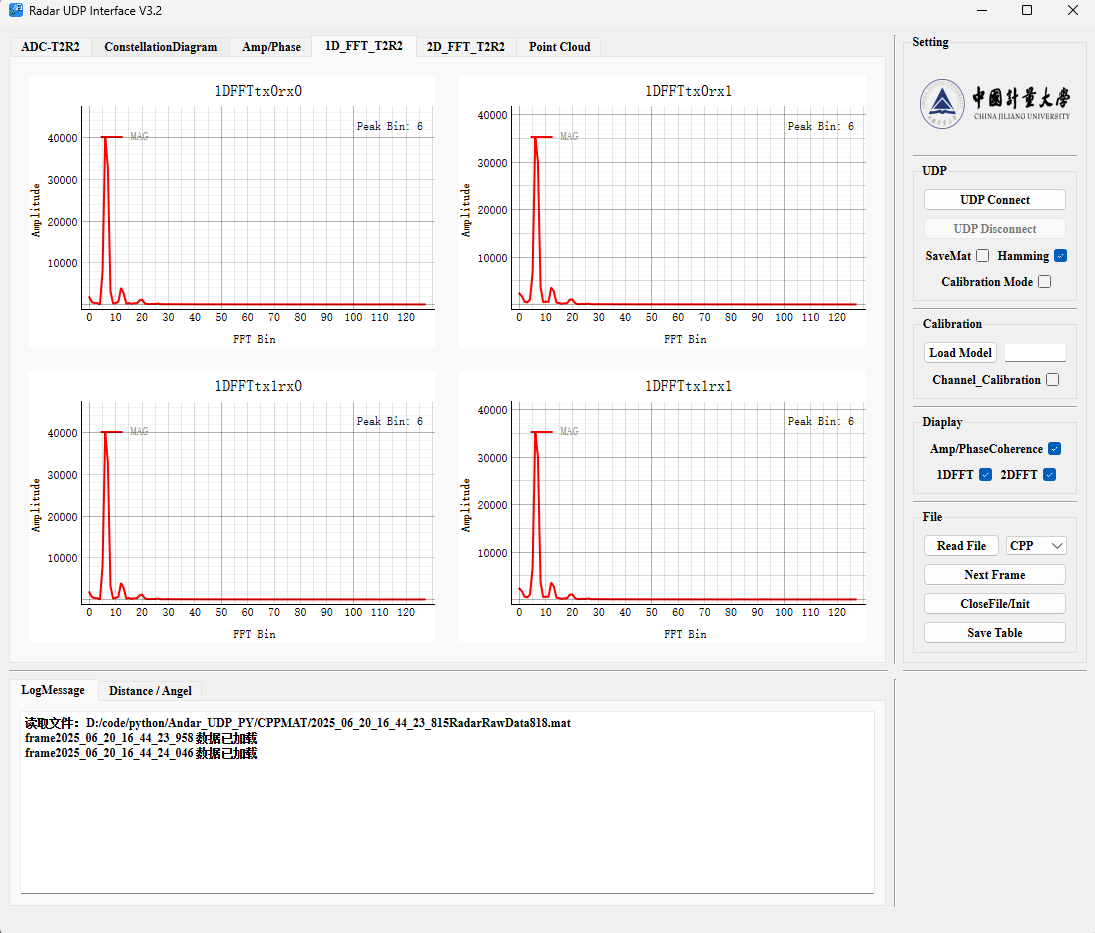
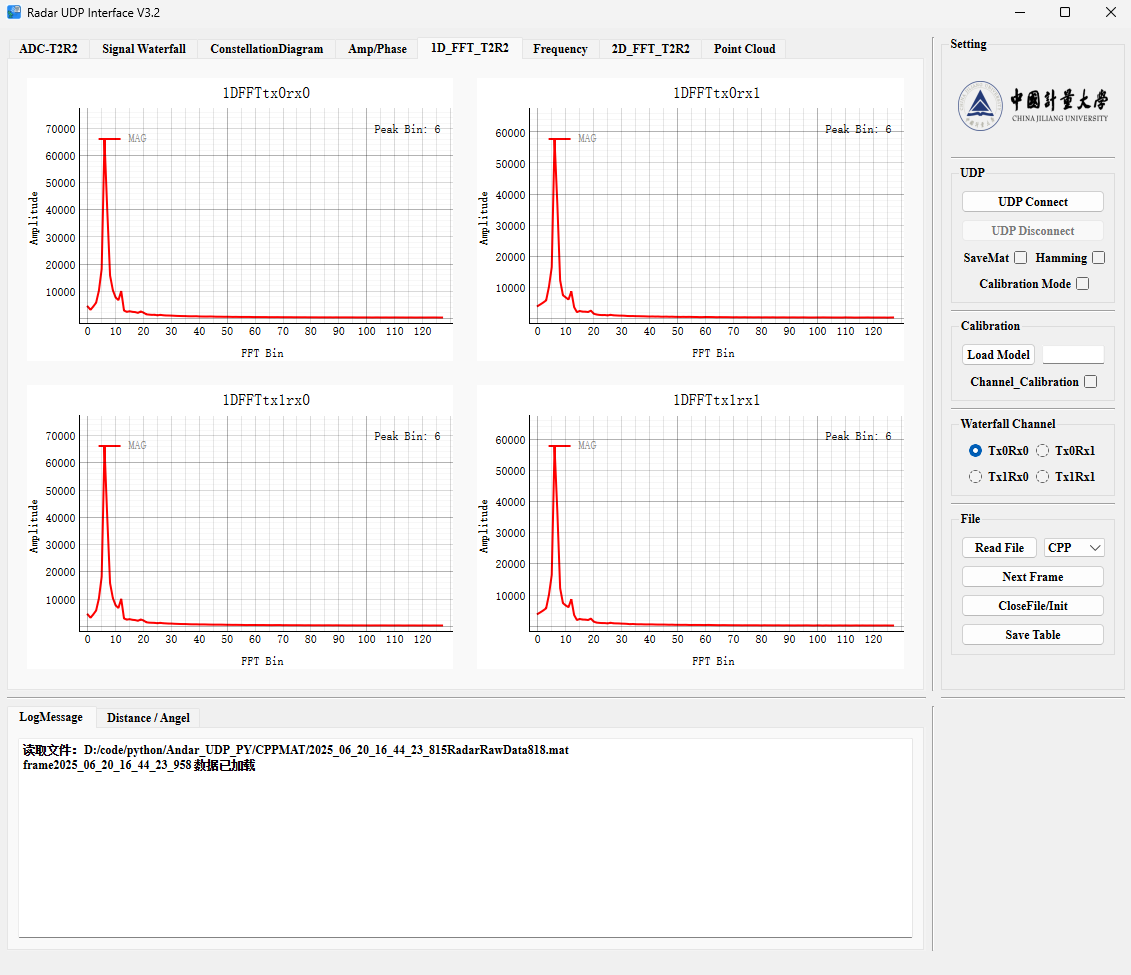
update Read me

diff --git a/README.md b/README.md
@@ -7,6 +7,7 @@ This project is a Python-based desktop application for real-time acquisition (da
 - Real-time display of raw ADC data from four virtual antennas.
 - Real-time display of constellation diagrams for four virtual antennas.
 - Real-time display of amplitude and phase fluctuation diagrams for four virtual antennas.
+- Real-time display of waterfall for antenna select in UI
 - Real-time calculation and display of 1D FFT results.
 - Real-time calculation and display of 2D FFT (range-Doppler) results.
 - Real-time calculation and display of 2D point clouds.
@@ -115,6 +116,35 @@ Each channel plots I (red) and Q (blue) separately for real-time observation of 
 ### Real-time ADC Interface
 
 ![adc](doc/image/ADC.png)
+
+------
+
+### Waterfall Plot (tab page: Signal Waterfall)
+
+Displays **time-frequency intensity distribution** of selected antenna channel signals.
+Visualizes amplitude variations across chirps and samples as a color-mapped heatmap, enabling temporal and spectral pattern analysis.
+
+**Main Features:**
+
+- **Channel-specific visualization**
+  Focuses on a user-selected antenna channel (TX0RX0, TX0RX1, TX1RX0, TX1RX1) for detailed analysis.
+- **2D intensity mapping**
+  Y-axis represents chirp indices (1-32), X-axis represents sample points (0-255), with color encoding signal amplitude (brighter = stronger).
+- **Real-time rolling update**
+  New chirp data is inserted at the top of the plot, with older data scrolling downward to maintain a continuous time-series view.
+- **Auto-level adjustment**
+  Dynamically adjusts color scaling to optimize contrast for the current signal range.
+
+**Use Cases:**
+
+- Identify time-varying signal patterns across chirps (e.g., Doppler shifts, transient reflections).
+- Detect sample-specific anomalies (e.g., noise bursts, synchronization errors).
+- Compare channel performance by switching between antenna combinations.
+- Monitor signal stability over multiple frames (e.g., fading, interference).
+
+### Signal Waterfall Interface
+
+![Signal Waterfall Interface](doc\image\waterfall.png)
 
 ------
 
@@ -245,6 +275,35 @@ Performs **fast Fourier transform (FFT)** on the ADC time-domain signal of each 
 ### 1D FFT (Range Spectrum)  Interface
 
 ![1D FFT (Range Spectrum) ](doc/image/1dfft.png)
+
+------
+
+### Frequency Spectrum Analysis (tab page: Frequency)
+
+Displays **frequency-domain spectra and algorithmic peak markers** derived from I/Q data.
+Shows a zoomed FFT spectrum with overlaid peak lines from four frequency-estimation algorithms for precision comparison.
+
+**Main Features:**
+
+- **Zoomed spectrum focus**
+  Automatically centers on the FFT peak with a ±2 bin range, highlighting the critical frequency region.
+- **Four-algorithm peak markers**
+  Distinct colored vertical lines represent peaks from FFT (red), Macleod (blue), CZT (green), and Macleod-CZT combo (magenta) algorithms.
+- **Auto-scaling axes**
+  Y-axis adjusts to spectrum amplitude with 5% padding; X-axis locks to the zoomed frequency range for consistent visualization.
+- **Real-time synchronization**
+  Updates with each new frame of I/Q data, ensuring peak markers reflect the latest signal characteristics.
+
+**Use Cases:**
+
+- Evaluate frequency-estimation precision across different algorithms.
+- Identify discrepancies between FFT bin centers and sub-bin estimation methods.
+- Verify stability of peak detection under varying signal conditions.
+- Compare computational efficiency vs. accuracy tradeoffs (via marker consistency).
+
+### Frequency Spectrum Analysis
+
+![Frequency Spectrum Analysis](doc\image\Frequency Spectrum Analysis.png)
 
 ------
 
